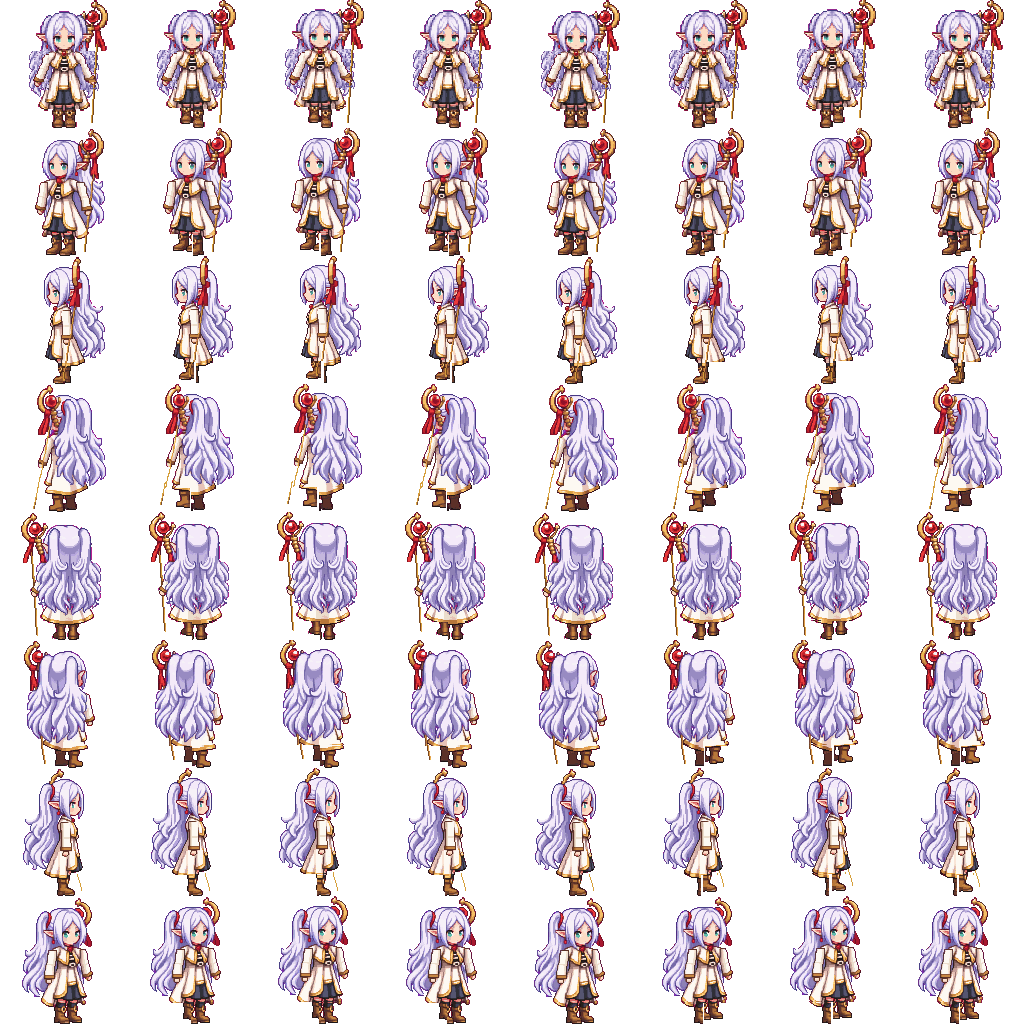
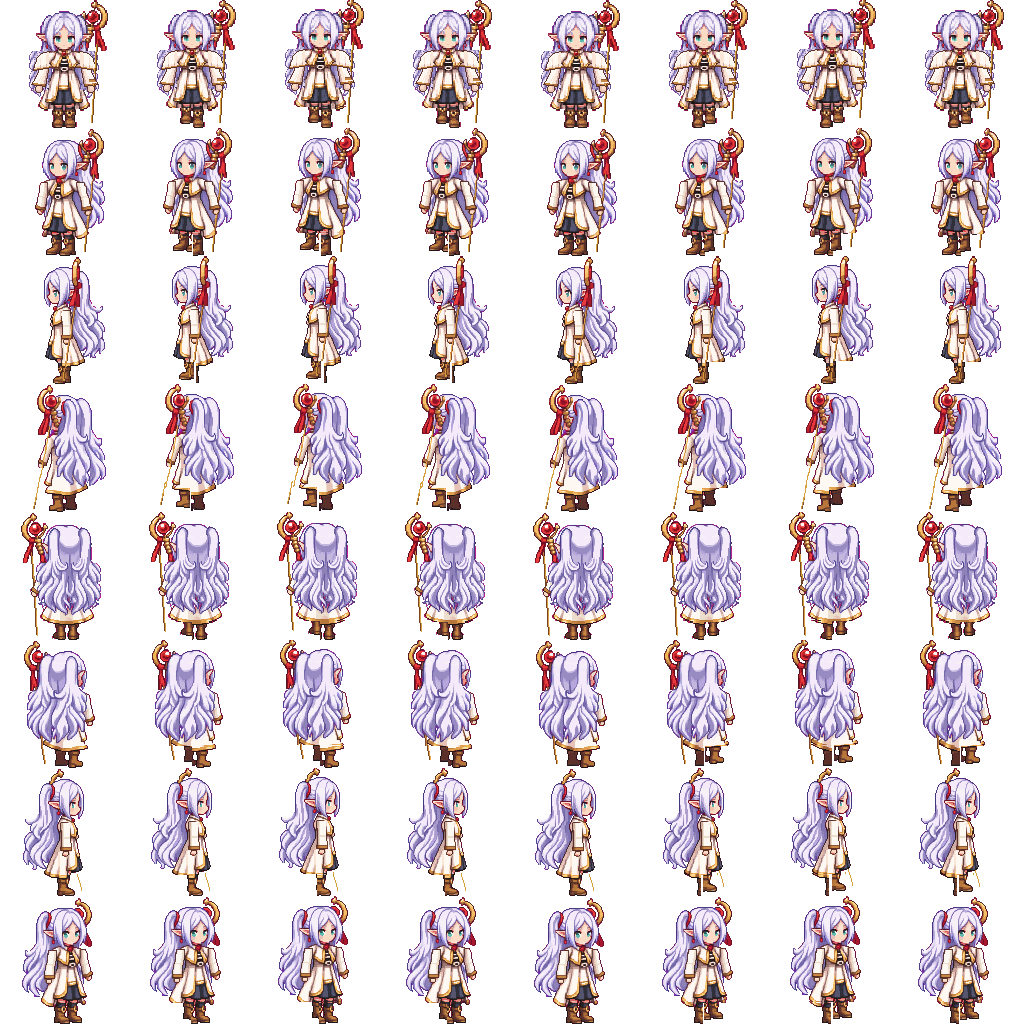
Front view: capelet over the shoulders, bell sleeves from under it
Paint the front frame's shoulders and arms in the sprite's own palette
instead of grafting arms from the diagonal views: the capelet now spreads
from the collar over both shoulders with a gold hem, and the sleeves hang
from under it, angled slightly out and widening into a bell at the wrist
with a gold cuff and the hand below (the right hand grips the staff).
Walk and attack sheets rebuilt from the new idle frame.

Claude-Session: https://claude.ai/code/session_01EoAgD4nUuveX489aYfu2wP

diff --git a/tools/front_arms.py b/tools/front_arms.py
@@ -1,13 +1,15 @@
-"""Redraw the front-facing frame's arms in a natural A-pose.
+"""Redraw the front-facing frame's shoulders and arms: a capelet over the shoulders, bell
+sleeves hanging from under it.
 
-usage: python3 tools/front_arms.py assets/mage_idle.png south.png south-west.png south-east.png
+usage: python3 tools/front_arms.py assets/mage_idle.png south.png
 
 The generated front view draws each sleeve as a flat-topped box standing beside the coat, so
-the arms look detached. The diagonal views draw natural arms, so this takes the screen-left
-arm from the south-west frame and the screen-right arm from the south-east frame (preview
-sheets, as for tools/sprite_cells.py), tilts them outward, tucks their tops under the capelet
-and lets them overlap the coat edge below it; the old sleeves are replaced with hair. Writes
-row 0 of the idle sheet; run tools/animate_sprite.py afterwards.
+the arms look detached. This replaces the boxes with hair and paints, in the sprite's own flat
+palette: a capelet spreading from the collar over both shoulders with a gold hem, and under it
+sleeves angled slightly away from the body that widen into a bell at the wrist, with a gold cuff
+and the hand below (the right hand grips the staff). `south.png` is the Oriverse preview sheet
+of the front direction (as for tools/sprite_cells.py). Writes row 0 of the idle sheet; run
+tools/animate_sprite.py afterwards.
 """
 import sys
 import numpy as np
@@ -15,12 +17,29 @@ from PIL import Image
 sys.path.insert(0, __file__.rsplit('/', 1)[0])
 from sprite_cells import cells
 
-SHEET, SOUTH, SOUTH_WEST, SOUTH_EAST = sys.argv[1:5]
-TILT = 0.25      # px outward per px down
-CAPE = 64        # above this row the arm goes behind the coat and capelet
+SHEET, SOUTH = sys.argv[1:3]
+MIRROR = 129     # x + mirrored x: the front view is symmetric about x = 64.5
+COLLAR = 67      # the original collar and lapels (coat pixels above this row) stay on top
+# screen-left half, sprite px
+NECK = (51.0, 51.0)            # where the capelet's shoulder line leaves the collar
+SHOULDER = (35.0, 62.0)        # outer end of the shoulder line
+HEM = (33.0, 70.0, 67.0)       # hem: outer x, row at the outer corner, row at the collar
+# sleeve edges run from row TOP (under the capelet) to the cuff; the outer edge flares out
+TOP, CUFF = 64, 86
+INNER = (49.0, 45.0)
+OUTER = (40.0, 30.0)
+CUFF_RISE = 2    # the cuff's outer corner sits this much higher than its inner corner
+BAND = 2         # gold cuff, rows
+
+def rgba(h):
+    return np.array([int(h[i:i + 2], 16) for i in (0, 2, 4)] + [255], np.uint8)
+
+# the front sprite's own flat palette
+LIGHT, MID, SHADE = rgba("fdf9f2"), rgba("fae5d7"), rgba("ceaaa6")
+OUTLINE, GOLD, GOLD_SHADE = rgba("5c3028"), rgba("c88845"), rgba("ad6d38")
+SKIN, SKIN_SHADE = rgba("fcdbc4"), rgba("e7c2b6")
+
 front = cells(SOUTH)[0].copy()
-sw = cells(SOUTH_WEST)[0]
-se = cells(SOUTH_EAST)[0]
 
 def hairish(px):
     r, g, b, a = [int(v) for v in px]
@@ -52,61 +71,130 @@ def hair_at(y, x, away):
 
 # body layer: the front frame with its box sleeves replaced by hair
 body = front.copy()
-coat = np.zeros((128, 128), bool)
 for (x0, x1, away) in ((34, 49, -1), (80, 95, +1)):
     for y in range(52, 90):
         for x in range(x0, x1):
             if armish(front[y, x]) and not staff[y, x]:
                 body[y, x] = hair_at(y, x, away)
-# coat pixels (kept above the arm's top, under the capelet)
-for y in range(40, 100):
-    for x in range(44, 85):
+collar = np.zeros((128, 128), bool)
+for y in range(44, COLLAR):
+    for x in range(49, 81):
         if armish(body[y, x]):
-            coat[y, x] = True
+            collar[y, x] = True
 
-def arm_mask(img, rect, seed):
-    x0, y0, x1, y1 = rect
-    m = np.zeros(img.shape[:2], bool)
-    stack = [seed]
-    while stack:
-        x, y = stack.pop()
-        if not (x0 <= x < x1 and y0 <= y < y1) or m[y, x] or not armish(img[y, x]):
+
+def outline(layer, shape, also=None):
+    """1 px outline inside the silhouette (and wherever `also` says, e.g. cuff above hand)."""
+    for y, x in zip(*np.where(shape)):
+        for ny, nx in ((y - 1, x), (y + 1, x), (y, x - 1), (y, x + 1)):
+            if not shape[ny, nx] or (also is not None and also(y, x, ny, nx)):
+                layer[y, x] = OUTLINE
+                break
+
+
+def paint_left_arm():
+    """Screen-left sleeve and hand as an RGBA layer, plus a mask of the hand pixels."""
+    layer = np.zeros((128, 128, 4), np.uint8)
+    (xi0, xi1), (xo0, xo1) = INNER, OUTER
+
+    def edges(y):
+        t = min(1.0, max(0.0, (y - TOP) / (CUFF - TOP)))
+        return xo0 + (xo1 - xo0) * t ** 1.4, xi0 + (xi1 - xi0) * t
+
+    def cuff_y(x):  # bottom of the sleeve under column x
+        return CUFF - CUFF_RISE * (xi1 - x) / (xi1 - xo1)
+
+    sleeve = np.zeros((128, 128), bool)
+    across = np.zeros((128, 128))  # 0 outer edge .. 1 body side
+    for y in range(TOP, CUFF + 1):
+        lo, hi = edges(y)
+        for x in range(int(lo), int(hi) + 2):
+            if lo - 0.5 <= x <= hi + 0.5 and y <= cuff_y(x) + 0.5:
+                sleeve[y, x] = True
+                across[y, x] = (x - lo) / max(1.0, hi - lo)
+    mid = (xo1 + xi1) / 2
+    hand_c = (mid + 1.0, cuff_y(mid) + 3.5)
+    hand = np.zeros((128, 128), bool)
+    for y in range(CUFF - 6, CUFF + 9):
+        for x in range(int(xo1) - 2, int(xi1) + 3):
+            if ((x - hand_c[0]) / 4.0) ** 2 + ((y - hand_c[1]) / 4.2) ** 2 <= 1:
+                hand[y, x] = True
+    hand &= ~sleeve
+    for y, x in zip(*np.where(hand)):
+        lit = (x - hand_c[0]) < 1.5 and (y - hand_c[1]) < 1.5
+        layer[y, x] = SKIN if lit else SKIN_SHADE
+    for y, x in zip(*np.where(sleeve)):
+        u = across[y, x]
+        if y > cuff_y(x) - BAND:
+            layer[y, x] = GOLD if u < 0.6 else GOLD_SHADE
             continue
-        m[y, x] = True
-        stack += [(x + 1, y), (x - 1, y), (x, y + 1), (x, y - 1)]
-    return m
+        layer[y, x] = LIGHT if u < 0.55 else MID if u < 0.82 else SHADE
+        # one crease down the bell
+        lo, hi = edges(y)
+        t = (y - TOP) / (CUFF - TOP)
+        if t > 0.5 and abs(x - (lo + (hi - lo) * (0.62 - 0.3 * t))) < 0.5:
+            layer[y, x] = MID
+    outline(layer, sleeve | hand, lambda y, x, ny, nx: sleeve[y, x] and hand[ny, nx])
+    return layer, hand
 
+
+def paint_left_capelet():
+    """Screen-left half of the capelet: from the collar over the shoulder, gold along the hem."""
+    layer = np.zeros((128, 128, 4), np.uint8)
+    (nx, ny), (sx, sy) = NECK, SHOULDER
+    hem_x, hem_out, hem_in = HEM
+
+    def top(x):  # rounded shoulder line
+        if x >= nx:
+            return ny
+        k = min(1.0, (nx - x) / (nx - sx))
+        return sy - (sy - ny) * np.sqrt(1 - k * k)
+
+    def outer(y):
+        return sx + (hem_x - sx) * max(0.0, (y - sy) / (hem_out - sy))
+
+    def hem(x):
+        return hem_in + (hem_out - hem_in) * min(1.0, max(0.0, (nx - x) / (nx - hem_x)))
+
+    cape = np.zeros((128, 128), bool)
+    for y in range(int(ny) - 1, int(hem_out) + 2):
+        for x in range(int(hem_x) - 1, 60):
+            if y >= top(x) - 0.5 and y <= hem(x) + 0.5 and (y < sy or x >= outer(y) - 0.5):
+                cape[y, x] = True
+    for y, x in zip(*np.where(cape)):
+        if y > hem(x) - 1.5:
+            layer[y, x] = GOLD if x < nx - 3 else GOLD_SHADE
+        elif x > nx - 2:
+            layer[y, x] = SHADE                      # under the collar
+        elif y > hem(x) - 3.5 or x > nx - 5:
+            layer[y, x] = MID
+        else:
+            layer[y, x] = LIGHT
+        # folds hanging from the shoulder to the hem
+        for fx in (sx + 5, sx + 11):
+            if abs(x - fx) < 0.5 and top(x) + 3 < y < hem(x) - 1.5:
+                layer[y, x] = SHADE if y > hem(x) - 4.5 else MID
+    outline(layer, cape)
+    return layer
+
+
+def mirror(img):
+    out = np.zeros_like(img)
+    out[:, MIRROR - 127:] = img[:, ::-1][:, :127 - (MIRROR - 127) + 1]
+    return out
+
+
+arm, hand = paint_left_arm()
+cape = paint_left_capelet()
 out = body.copy()
-pasted = np.zeros((128, 128), bool)
-OUTLINE = np.array([0x5C, 0x30, 0x28, 255], np.uint8)
-def paste(img, m, dx, outward):
-    ys, xs = np.where(m)
-    top = ys.min()
-    for y, x in zip(ys, xs):
-        tx = x + dx + outward * round((y - top) * TILT)
-        if not (0 <= tx < 128):
-            continue
-        if y < CAPE and coat[y, tx]:
-            continue  # tucked under the capelet
-        out[y, tx] = img[y, x]
-        pasted[y, tx] = True
-    # the tilt shifts rows in steps; close the outer outline where a light sleeve pixel
-    # now touches hair or empty space
-    ys, xs = np.where(pasted)
-    for y, x in zip(ys, xs):
-        r, g, b, a = [int(v) for v in out[y, x]]
-        if r + g + b < 360:
-            continue
-        nx = x + outward
-        if 0 <= nx < 128 and not pasted[y, nx] and not coat[y, nx]:
-            out[y, nx] = OUTLINE
-
-lm = arm_mask(sw, (28, 50, 47, 92), (40, 68))
-rm = arm_mask(se, (82, 50, 101, 92), (87, 68))
-paste(sw, lm, 5, -1)
-paste(se, rm, -4, +1)
-out[staff] = front[staff]
+for layer, grip in ((arm, hand), (mirror(arm), mirror(hand)), (cape, None), (mirror(cape), None)):
+    for y, x in zip(*np.where(layer[..., 3] > 0)):
+        if collar[y, x]:
+            continue  # the original collar and lapels sit on top
+        if staff[y, x] and not (grip is not None and grip[y, x]):
+            continue  # the staff stands in front, behind the gripping hand
+        out[y, x] = layer[y, x]
 sheet = np.array(Image.open(SHEET).convert("RGBA"))
 sheet[0:128] = out
 Image.fromarray(sheet, "RGBA").save(SHEET, optimize=True)
-print("front arms redrawn in", SHEET)
+print("front shoulders and arms redrawn in", SHEET)

diff --git a/README.md b/README.md
@@ -46,9 +46,10 @@ python3 -m http.server 8000
   ```sh
   python3 tools/sprite_cells.py assets/mage_idle.png south.png south-west.png west.png north-west.png north.png north-east.png east.png south-east.png
   ```
-- ภาพหน้าตรงที่ได้มาแขนเป็นกล่องแยกจากตัว จึงวาดแขนใหม่เป็นท่าแขนกางลงเล็กน้อย (A-pose) โดยยืมแขนจากภาพเฉียงหน้าซ้าย/ขวา สอดใต้ผ้าคลุมไหล่
+- ภาพหน้าตรงที่ได้มาแขนเป็นกล่องแยกจากตัว จึงวาดไหล่กับแขนใหม่ด้วยสีชุดเดิมของสไปรต์:
+  ผ้าคลุมจากคอคลุมไหล่ทั้งสองข้าง ขอบล่างขลิบทอง แขนเสื้อยื่นออกมาจากใต้ผ้าคลุม เอียงออกจากตัวเล็กน้อย แล้วบานกว้างขึ้นตรงข้อมือ (มือขวากำไม้เท้า)
   ```sh
-  python3 tools/front_arms.py assets/mage_idle.png south.png south-west.png south-east.png
+  python3 tools/front_arms.py assets/mage_idle.png south.png
   ```
 - ท่าเดินกับท่าโจมตีสร้างจาก 8 ทิศนั้นด้วย `python3 tools/animate_sprite.py assets/mage_idle.png assets`
   (สั่งให้ Oriverse สร้างแอนิเมชันเดิน/โจมตีแล้วล้มเหลวทุกงานด้วย "Animation first frame differs from its retained input" และได้เครดิตคืน)
@@ -67,4 +68,4 @@ python3 -m http.server 8000
 | `src/motes.js` | ละอองเรืองแสงลอยทั่วลาน |
 | `src/hud.js` | แถบสกิล 10 ช่อง, คูลดาวน์ |
 | `assets/` | `map.jpg` ภาพฉากจาก Oriverse, `mage_*.png` ชีตตัวละคร 8 ทิศ, texture ดอกไม้/กลีบ/วงเวท (bake จากสูตร `#texture` เดียวกับใน Weave) |
-| `tools/` | ต่อภาพฉาก (`stitch_map.py`), ดึงเฟรมสไปรต์ (`sprite_cells.py`), วาดแขนภาพหน้าตรง (`front_arms.py`), สร้างท่าเดิน/โจมตี (`animate_sprite.py`) |
+| `tools/` | ต่อภาพฉาก (`stitch_map.py`), ดึงเฟรมสไปรต์ (`sprite_cells.py`), วาดไหล่และแขนภาพหน้าตรง (`front_arms.py`), สร้างท่าเดิน/โจมตี (`animate_sprite.py`) |
